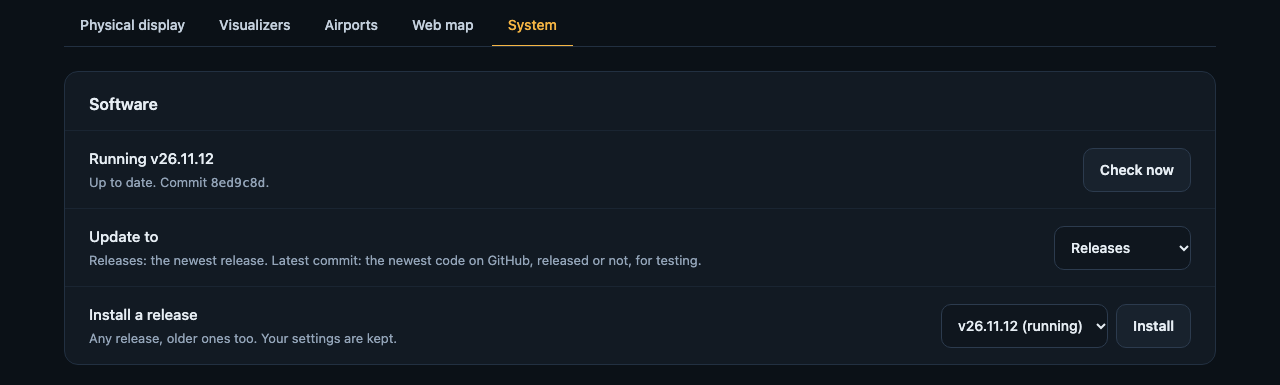
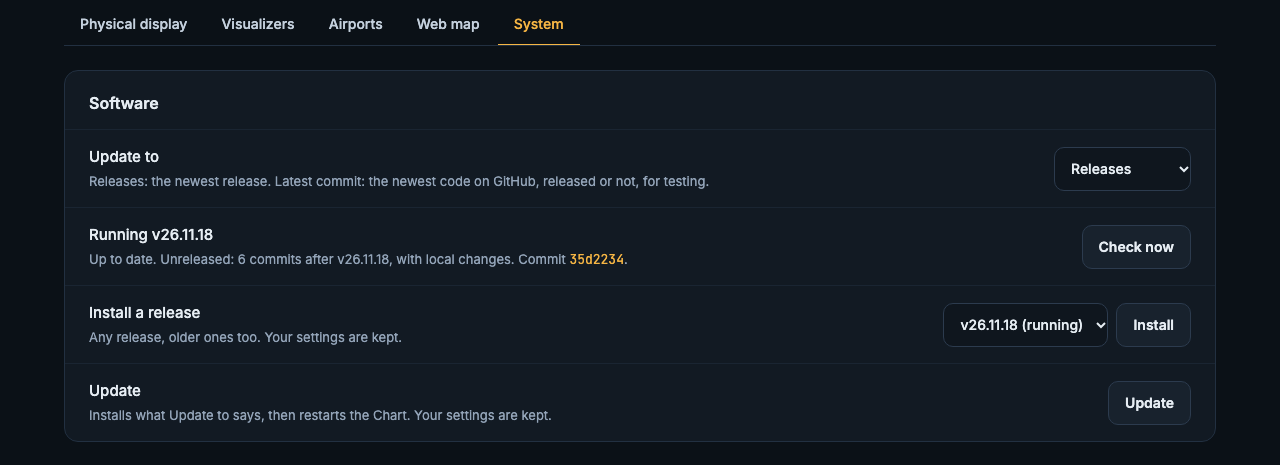
Update card: Update to, Branch, Check, Install a release, Update; controls lock during a check; checks run one at a time (B103)

diff --git a/src/metarmap/web/static/app.js b/src/metarmap/web/static/app.js
@@ -560,40 +560,84 @@
         });
     }
 
-    // Config > System > Software: a new Update to / Branch runs Check now (never installs), the button glowing meanwhile
-    async function checkUpdate() {
+    // Config > System > Software: a new Update to / Branch saves, then runs Check now (never installs). While it runs
+    // every control of the card is off (checking), so a second change can't save a channel or branch the running
+    // check isn't reading, nor a second check start; the Check button glows meanwhile
+    const UPDATE_CONTROLS = ['update-channel', 'update-branch', 'update-check', 'release-pick', 'update-run'];
+    let checking = false;
+
+    function lockUpdate(on) {
+        checking = on;
+        UPDATE_CONTROLS.forEach(function (id) {
+            const el = document.getElementById(id);
+            if (el) busy(el, on || el.hasAttribute('data-none'));  // data-none: no releases to pick, ever off
+        });
+        document.querySelectorAll('[data-install-release]').forEach(function (el) { busy(el, on || el.hasAttribute('data-none')); });
+        const btn = document.getElementById('update-check');
+        if (btn) btn.classList.toggle('loading', on);
+    }
+
+    // work: what runs while the card is locked (the save, then the check). A page that reloads stays locked.
+    async function checkUpdate(work) {
+        if (checking) return false;  // one at a time, even if a change slipped in before the controls were off
         const channel = document.getElementById('update-channel');
         const branch = document.getElementById('update-branch');
-        if (channel && channel.value === 'branch' && !(branch && branch.value)) return;  // no branch picked yet
-        const btn = document.getElementById('update-check');
-        busy(btn, true);
-        if (btn) btn.classList.add('loading');
+        lockUpdate(true);
+        let reloading = false;
         try {
+            if (work) await work();
+            // no branch picked yet: a change has nothing to check, but Check now always asks (it fills the branch list)
+            if (work && channel && channel.value === 'branch' && !(branch && branch.value)) return true;
             await call('/update/check');
+            reloading = true;
             window.location.reload();
         } catch (err) {
-            showOutput('Error', String(err));
-            busy(btn, false);
-            if (btn) btn.classList.remove('loading');
+            showOutput(err.saving ? 'Could not save' : 'Error', String(err));
+        } finally {
+            if (!reloading) lockUpdate(false);
         }
+        return true;
+    }
+
+    const updateCheck = document.getElementById('update-check');
+    if (updateCheck) updateCheck.addEventListener('click', function (e) { e.preventDefault(); checkUpdate(); });
+
+    // puts a select back to what is saved, and its nested rows (the Branch row) with it
+    function restoreSaved(el) {
+        el.value = el.dataset.saved;
+        el.dispatchEvent(new Event('when-refresh'));  // not 'change': that would save and check again
     }
 
     // config settings: <input data-key="a.b" data-restart> / <select data-key>
     document.querySelectorAll('[data-key]').forEach(function (el) {
+        const checks = el.hasAttribute('data-check-update');
+        if (checks) el.dataset.saved = el.value;
         el.addEventListener('change', async function () {
             let value = el.type === 'checkbox' ? el.checked : el.value;
             if (value === '' && el.dataset.empty) value = el.dataset.empty;  // a URL can't end in nothing: "-" is empty
-            try {
-                await call('/config/edit/' + el.dataset.key + '/' + encodeURIComponent(value));
+            const save = async function () {
+                try {
+                    await call('/config/edit/' + el.dataset.key + '/' + encodeURIComponent(value));
+                } catch (err) {
+                    if (checks) restoreSaved(el);  // the card shows what is saved
+                    err.saving = true;
+                    throw err;
+                }
+                if (checks) el.dataset.saved = el.value;
                 if (el.hasAttribute('data-restart')) {
                     const banner = document.getElementById('restart-banner');
                     if (banner) banner.hidden = false;
                 }
-            } catch (err) {
-                showOutput('Could not save', String(err));
+            };
+            if (checks) {
+                if (!await checkUpdate(save)) restoreSaved(el);  // a check is running: this change is dropped
                 return;
             }
-            if (el.hasAttribute('data-check-update')) checkUpdate();
+            try {
+                await save();
+            } catch (err) {
+                showOutput('Could not save', String(err));
+            }
         });
     });
 
@@ -667,6 +711,7 @@
             else group.hidden = 'whenValue' in group.dataset ? control.value !== group.dataset.whenValue : !control.checked;
         };
         control.addEventListener('change', update);
+        control.addEventListener('when-refresh', update);  // a value put back by script, which fires no change
     });
 
     // Config > Visualizer: the unticked visualizers are saved as a list of ids (visualizer.auto_rotate.skip)

diff --git a/tests/test_web.py b/tests/test_web.py
@@ -1898,7 +1898,7 @@ def test_no_branch_choice_without_dev_mode(release_client):
     body = c("/config")[1]
     assert '<option value="branch"' not in body and 'id="update-branch"' not in body
     assert 'id="update-channel" data-key="update.channel" data-check-update>' in body
-    assert 'id="update-check" data-call="/update/check"' in body
+    assert 'id="update-check"' in body and 'data-call="/update/check"' not in body  # app.js runs it, locking the card
     assert c("/config/edit/update.channel/branch")[0] == 400
     assert c("/config/edit/dev_mode/true")[0] == 400  # config.json only
     assert c.services.config.data.dev_mode is False
@@ -1915,6 +1915,43 @@ def test_dev_mode_lists_the_branches(dev_client):
     assert 'id="update-channel" data-key="update.channel" data-check-update>' in body
     assert '<option value="feature/radar">feature/radar</option>' in body
     assert c.json("/api/status", auth=False)["update"]["branches"] == ["feature/radar", "master"]
+
+
+def test_software_controls_in_order(dev_client):
+    c = dev_client
+    c.services.releases.check()
+    card = c("/config")[1].split('id="updates"', 1)[1].split('id="speech"', 1)[0]
+    marks = ['id="update-channel"', 'id="update-branch"', 'id="update-check"', 'id="release-pick"', 'id="update-run"']
+    places = [card.index(m) for m in marks]
+    assert places == sorted(places), places
+    assert "data-install-release" in card and "data-update" in card
+    assert card.count('autocomplete="off"') == 3  # Firefox keeps a disabled state over a reload otherwise
+    assert 'id="update-check" data-call' not in card and "Check now</button>" in card
+
+
+def test_release_picker_in_every_mode(release_client):
+    c = release_client
+    for channel in ("releases", "latest"):
+        c("/config/edit/update.channel/" + channel)
+        c.services.releases.check()
+        body = c("/config")[1]
+        assert 'id="release-pick"' in body and "data-install-release" in body, channel
+        assert '<option value="v2.7.0"' in body
+
+
+def test_release_picker_without_releases_is_off(make_app):
+    from metarmap.releases import ReleaseCheck
+
+    app = make_app()
+    app.releases = ReleaseCheck(channel=lambda: "releases", current="2.8.4", git=fake_git(tags=()))
+    app.releases.check()
+    c = Client(create_app(app, ip="10.0.0.2"))
+    try:
+        body = c("/config")[1]
+    finally:
+        app.display.stop()
+    assert 'id="release-pick" disabled data-none' in body and "No releases yet" in body
+    assert "data-install-release disabled data-none" in body
 
 
 def test_update_from_a_branch(dev_client):

diff --git a/tests/test_update.py b/tests/test_update.py
@@ -6,6 +6,7 @@ than root. Also the check behind "Update available" (metarmap.releases) and rele
 
 import json
 import subprocess
+import threading
 from types import SimpleNamespace
 
 import pytest
@@ -910,3 +911,32 @@ def test_the_build_is_whats_running_not_whats_on_disk(repos):
 )
 def test_github_url(remote, url):
     assert github_url(remote) == url
+
+
+def test_checks_run_one_at_a_time():
+    """Two checks at once (two browsers, or the background check and the button) never overlap in git."""
+    running, most = 0, 0
+    guard = threading.Lock()
+    first_in = threading.Event()
+    release_first = threading.Event()
+
+    def fake_git(*args):
+        nonlocal running, most
+        with guard:
+            running += 1
+            most = max(most, running)
+        first_in.set()
+        release_first.wait(2)
+        with guard:
+            running -= 1
+        return subprocess.CompletedProcess(args, 0, stdout="", stderr="")
+
+    releases = ReleaseCheck(git=fake_git)
+    threads = [threading.Thread(target=releases.check) for _ in range(2)]
+    threads[0].start()
+    assert first_in.wait(2)
+    threads[1].start()  # blocks on the check lock while the first one is inside git
+    release_first.set()
+    for t in threads:
+        t.join(5)
+    assert most == 1 and not any(t.is_alive() for t in threads)

diff --git a/src/metarmap/releases.py b/src/metarmap/releases.py
@@ -134,6 +134,7 @@ class ReleaseCheck:
         self._git = git or (lambda *args: update.run_git(self._repo, *args, timeout=CHECK_TIMEOUT))
         self._clock = clock
         self._lock = threading.Lock()
+        self._check_lock = threading.Lock()  # one check at a time, so the newest settings win
         self._found = {"releases": [], "branches": [], "available": None, "checked": None, "error": None}
         self.installed = None  # what an update installed: it runs after the next restart
         self.build = None  # what's running: load_build() reads it once, when the map starts
@@ -147,7 +148,15 @@ class ReleaseCheck:
         return self.build
 
     def check(self):
-        """Asks GitHub what's newest. Never raises: a failure is kept as state()["error"]. Returns state()."""
+        """
+        Asks GitHub what's newest. Never raises: a failure is kept as state()["error"]. Returns state().
+        Checks run one at a time (two browsers, or the background check and a button), each reading the channel and
+        branch when it starts, so the last one to run is the last to write.
+        """
+        with self._check_lock:
+            return self._check()
+
+    def _check(self):
         channel = self._channel()
         try:
             tags = [

diff --git a/README.md b/README.md
@@ -154,11 +154,11 @@ change one, a banner at the top offers **Restart now**.
 
 ![Config with the restart banner: "Some changes take effect after the map restarts" and a Restart now button, above the Physical display tab where Data pin and Color order are tagged Restart](docs/images/config_restart_banner.png)
 
-Config, System: **Software** (the version running, **Check now**, the release channel and **Install a release**),
+Config, System: **Software** (**Update to**, **Check now**, **Install a release** and **Update**),
 **Spoken weather** (the speech server, Pronunciation, Spoken ATIS and a Test button) and **Access** (the Chart's name on
 the network, the web login and the Wi-Fi network):
 
-![Config, System, Software: the running version, Check now, Update to and Install a release](docs/images/config_system_software.png)
+![Config, System, Software: Update to, the running version with Check now, Install a release and Update](docs/images/config_system_software.png)
 
 ![Config, System, Spoken weather: Enable speech, the Kokoro speech server, voice, speed, time limit, Pronunciation, Spoken ATIS and Test](docs/images/config_system_spoken_weather.png)
 
@@ -363,11 +363,15 @@ pages) reloads by itself when you come back to it, or within 5 minutes if you ar
 version and commit, so a branch install (same version, new code) reloads it too. A page you are typing in waits.
 
 **Config > System > Software** has more:
-- **Check now** asks GitHub straight away.
+- The controls run top to bottom: **Update to**, the **Branch** (only in dev_mode, with Branch picked), the running
+  version with **Check now**, **Install a release** and **Update**.
+- **Check now** asks GitHub straight away. Changing **Update to** or the branch checks too (it never installs). While a
+  check runs, the whole card is off, so a second change can't start before the first check is done.
 - **Update to**: **Releases** (the default) installs only released versions, and never goes back to an older one.
   **Latest commit** installs the newest code on GitHub, released or not. Use it on a Chart you test changes on.
-- **Install a release** installs any release, older ones too, to go back if a new one has a problem. It asks first
-  before going back.
+- **Install a release** installs any release, older ones too, whichever **Update to** says, to go back if a new one has a
+  problem. It asks first before going back.
+- **Update** installs what **Update to** says.
 
 Or, over SSH, the newest release:
 

diff --git a/CHANGELIST.md b/CHANGELIST.md
@@ -1,5 +1,7 @@
 ### Unreleased
 
+- **Config > System > Software is in the order you use it.** **Update to**, then the **Branch** (dev_mode, with Branch picked), then the running version with **Check now**, then **Install a release** (now shown even when GitHub lists no releases: disabled, "No releases yet") and a new **Update** button last. While a check runs (after changing Update to or the branch, or with Check now), every control on the card is off, and is back when it ends, also if it fails; a change made while a check is running can no longer save a setting the check isn't reading, and checks now run one at a time on the Chart. The Check now button is no longer a `data-call` button (the page runs it). No API change.
+
 - **The Cockpit shows the raw METAR while an AWOS plays.** On the Info tab's **AWOS** mode the bar used to show the spoken sentence; it now shows the airport's raw METAR, so you can follow along and learn to read one (the spoken sentence is still shown if the raw METAR can't be fetched). ATIS is unchanged. No API change.
 
 - **Fetches cost a Pi Zero much less CPU.** Every data source (METARs, TAFs, advisories, TFRs, delays, traffic, ATIS) used to open a new connection for each request, and on the Pi each new connection spent about 1.4 s of CPU reading the certificate bundle, about half the time of the fetch burst every 10 minutes. They now share one session that keeps connections open and reads the bundle once (a stale connection is retried once). A request with its own TLS settings (`REQUESTS_CA_BUNDLE`, a proxy) is sent the way it was before.
